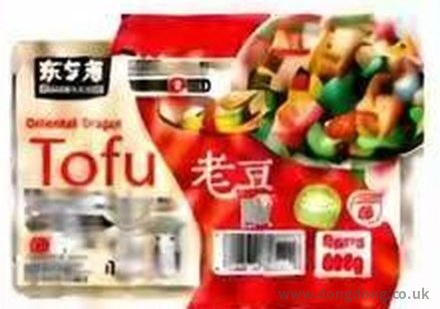
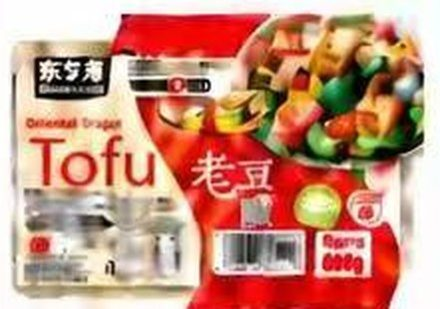
东方龙老豆腐换新包装图（视频截取）
Claude-Session: https://claude.ai/code/session_01EapkdAZuY1J5DZKGNmtVd8

Changed region(s): [[0.6205, 0.932, 0.975, 0.9903]]

diff --git a/classic.html b/classic.html
@@ -2230,7 +2230,7 @@ const PRODUCTS_RAW=[
  {"c": "eggs", "zh": "鸡蛋 30 个装", "en": "Eggs, tray of 30", "spec": "30 个 30 eggs", "price": 4.95, "unit": "/盘 tray", "uk": {"zh":"英国本地鸡蛋 · 非欧洲进口","en":"British eggs"}, "img": "img/ph_egg30.jpg"},
  {"c": "eggs", "zh": "鸡蛋 6 个装", "en": "Eggs, pack of 6", "spec": "6 个 6 eggs", "price": 1.5, "unit": "/盒 box", "uk": {"zh":"英国本地鸡蛋 · 非欧洲进口","en":"British eggs"}, "img": "img/ph_egg6.jpg"},
 {"c": "eggs", "zh": "鹌鹑蛋 12个装", "en": "Quail Eggs (12)", "spec": "12个 12 eggs", "price": 2.99, "bbd": "16/12/2026", "img": "img/nw_quail_eggs.jpg"},
- {"c": "tofufresh", "zh": "东方龙 Oriental Dragon 老豆腐", "en": "Oriental Dragon 东方龙 Firm Tofu", "spec": "600g", "price": 1.75, "unit": "/盒 box", "uk": true, "img": "img/tf_laodoufu.jpg"},
+ {"c": "tofufresh", "zh": "东方龙 Oriental Dragon 老豆腐", "en": "Oriental Dragon 东方龙 Firm Tofu", "spec": "600g", "price": 1.75, "unit": "/盒 box", "uk": true, "img": "img/hd_od_laodoufu600.jpg"},
  {"c": "tofufresh", "zh": "东方龙 Oriental Dragon 绢豆腐", "en": "Oriental Dragon 东方龙 Silken Tofu", "spec": "350g", "price": 1.85, "deal": {"type": "bxgy", "buy": 2, "free": 1}, "unit": "/盒 box", "uk": true, "img": "img/nw_tf_juan350.jpg"},
  {"c": "tofufresh", "zh": "东方龙 Oriental Dragon 百叶豆腐", "en": "Oriental Dragon 东方龙 BaiYe Tofu", "spec": "227g", "oos": true, "price": 2.49, "uk": true, "img": "img/nw_tf_baiye.jpg"},
  {"c": "tofufresh", "zh": "东方龙 Oriental Dragon 嫩豆腐", "en": "Oriental Dragon 东方龙 Medium Firm Tofu", "spec": "600g", "price": 1.75, "unit": "/盒 box", "uk": true, "img": "img/nw_ns_p6_odnen.jpg"},

diff --git a/index.html b/index.html
@@ -2411,7 +2411,7 @@ const PRODUCTS_RAW=[
  {"c": "eggs", "zh": "鸡蛋 30 个装", "en": "Eggs, tray of 30", "spec": "30 个 30 eggs", "price": 4.95, "unit": "/盘 tray", "uk": {"zh":"英国本地鸡蛋 · 非欧洲进口","en":"British eggs"}, "img": "img/ph_egg30.jpg"},
  {"c": "eggs", "zh": "鸡蛋 6 个装", "en": "Eggs, pack of 6", "spec": "6 个 6 eggs", "price": 1.5, "unit": "/盒 box", "uk": {"zh":"英国本地鸡蛋 · 非欧洲进口","en":"British eggs"}, "img": "img/ph_egg6.jpg"},
 {"c": "eggs", "zh": "鹌鹑蛋 12个装", "en": "Quail Eggs (12)", "spec": "12个 12 eggs", "price": 2.99, "bbd": "16/12/2026", "img": "img/nw_quail_eggs.jpg"},
- {"c": "tofufresh", "zh": "东方龙 Oriental Dragon 老豆腐", "en": "Oriental Dragon 东方龙 Firm Tofu", "spec": "600g", "price": 1.75, "unit": "/盒 box", "uk": true, "img": "img/tf_laodoufu.jpg"},
+ {"c": "tofufresh", "zh": "东方龙 Oriental Dragon 老豆腐", "en": "Oriental Dragon 东方龙 Firm Tofu", "spec": "600g", "price": 1.75, "unit": "/盒 box", "uk": true, "img": "img/hd_od_laodoufu600.jpg"},
  {"c": "tofufresh", "zh": "东方龙 Oriental Dragon 绢豆腐", "en": "Oriental Dragon 东方龙 Silken Tofu", "spec": "350g", "price": 1.85, "deal": {"type": "bxgy", "buy": 2, "free": 1}, "unit": "/盒 box", "uk": true, "img": "img/nw_tf_juan350.jpg"},
  {"c": "tofufresh", "zh": "东方龙 Oriental Dragon 百叶豆腐", "en": "Oriental Dragon 东方龙 BaiYe Tofu", "spec": "227g", "oos": true, "price": 2.49, "uk": true, "img": "img/nw_tf_baiye.jpg"},
  {"c": "tofufresh", "zh": "东方龙 Oriental Dragon 嫩豆腐", "en": "Oriental Dragon 东方龙 Medium Firm Tofu", "spec": "600g", "price": 1.75, "unit": "/盒 box", "uk": true, "img": "img/nw_ns_p6_odnen.jpg"},
